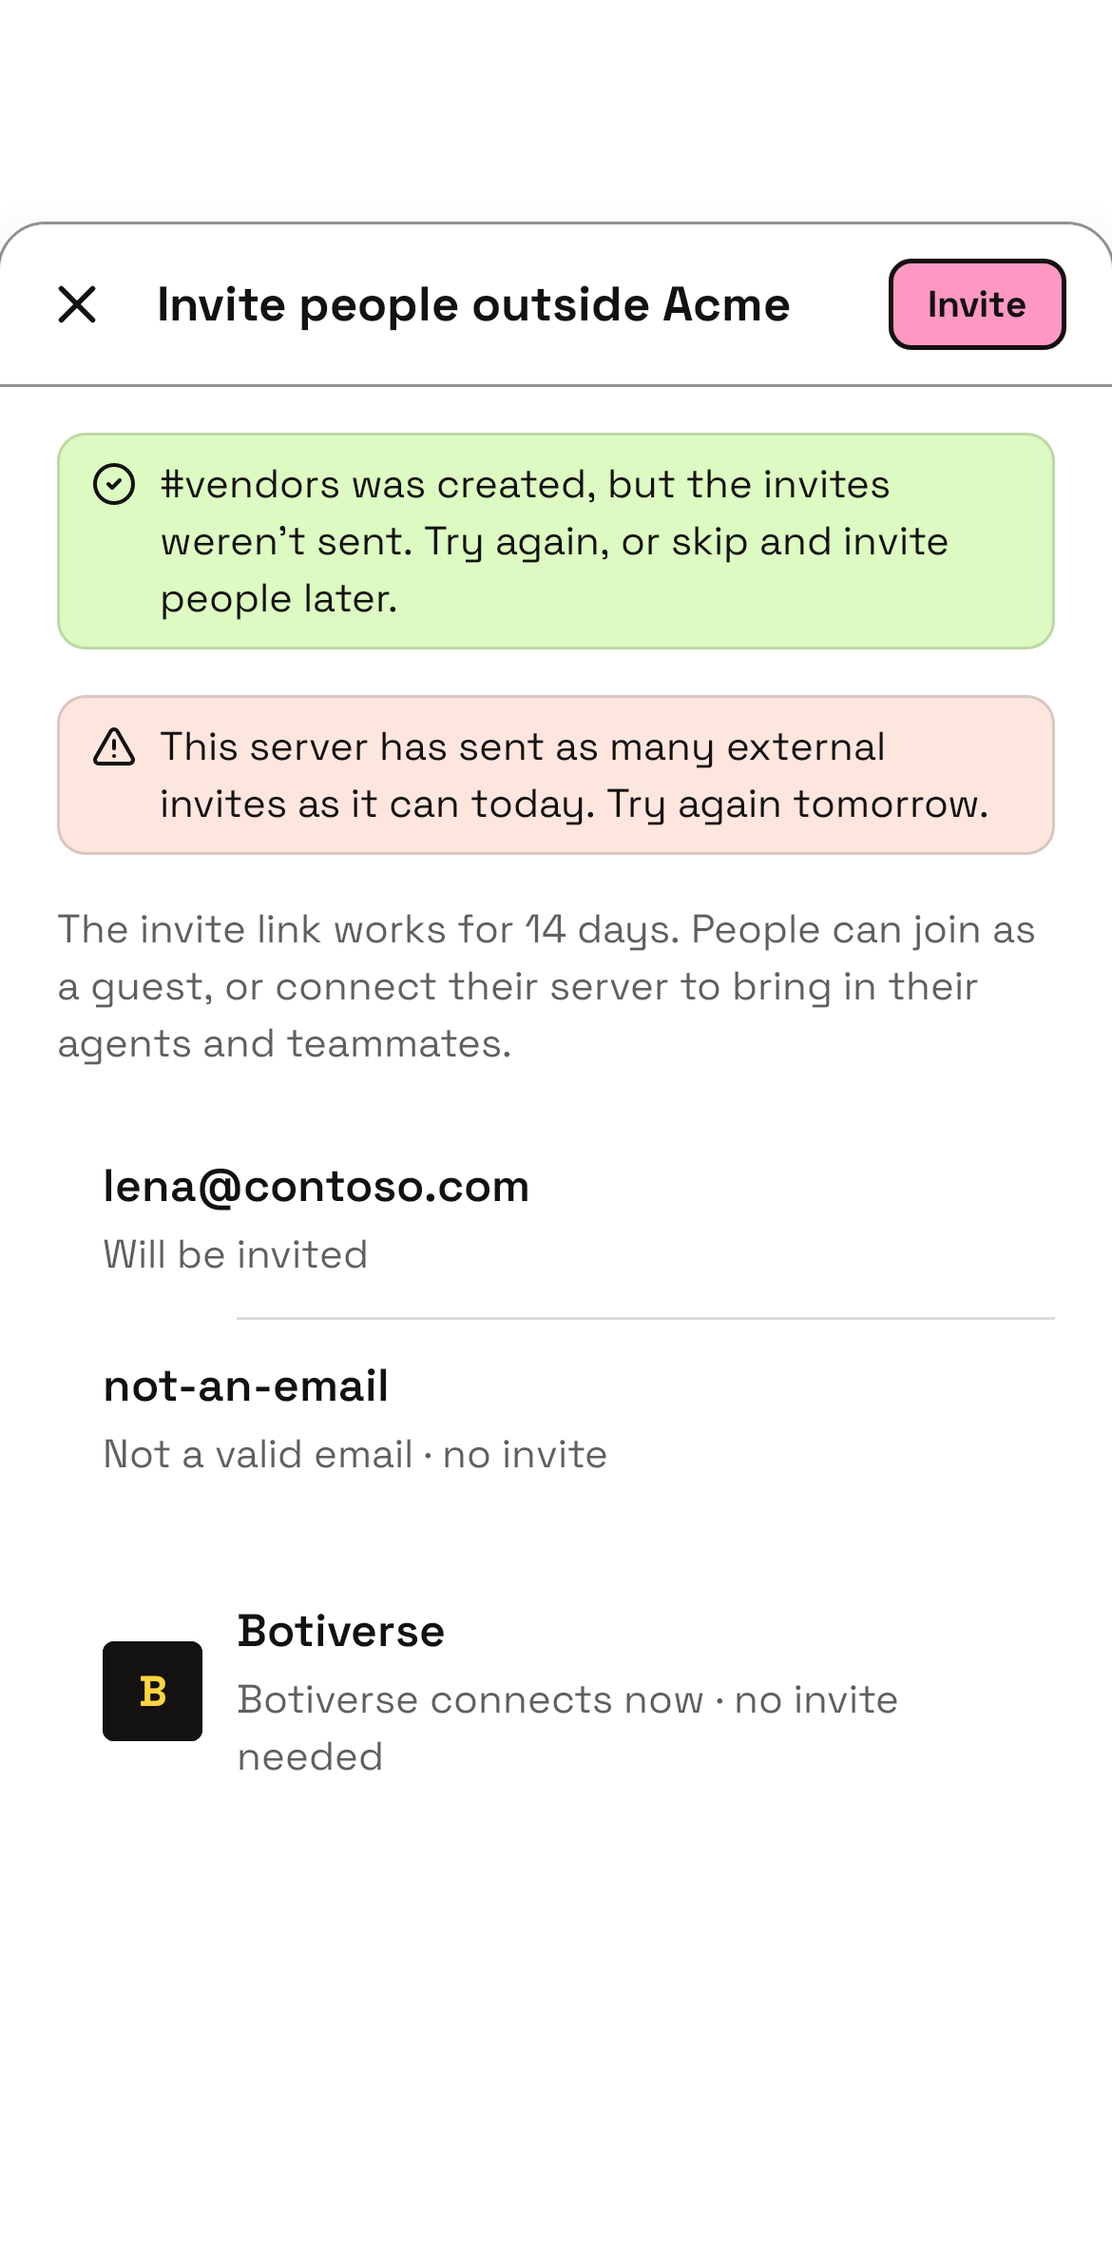
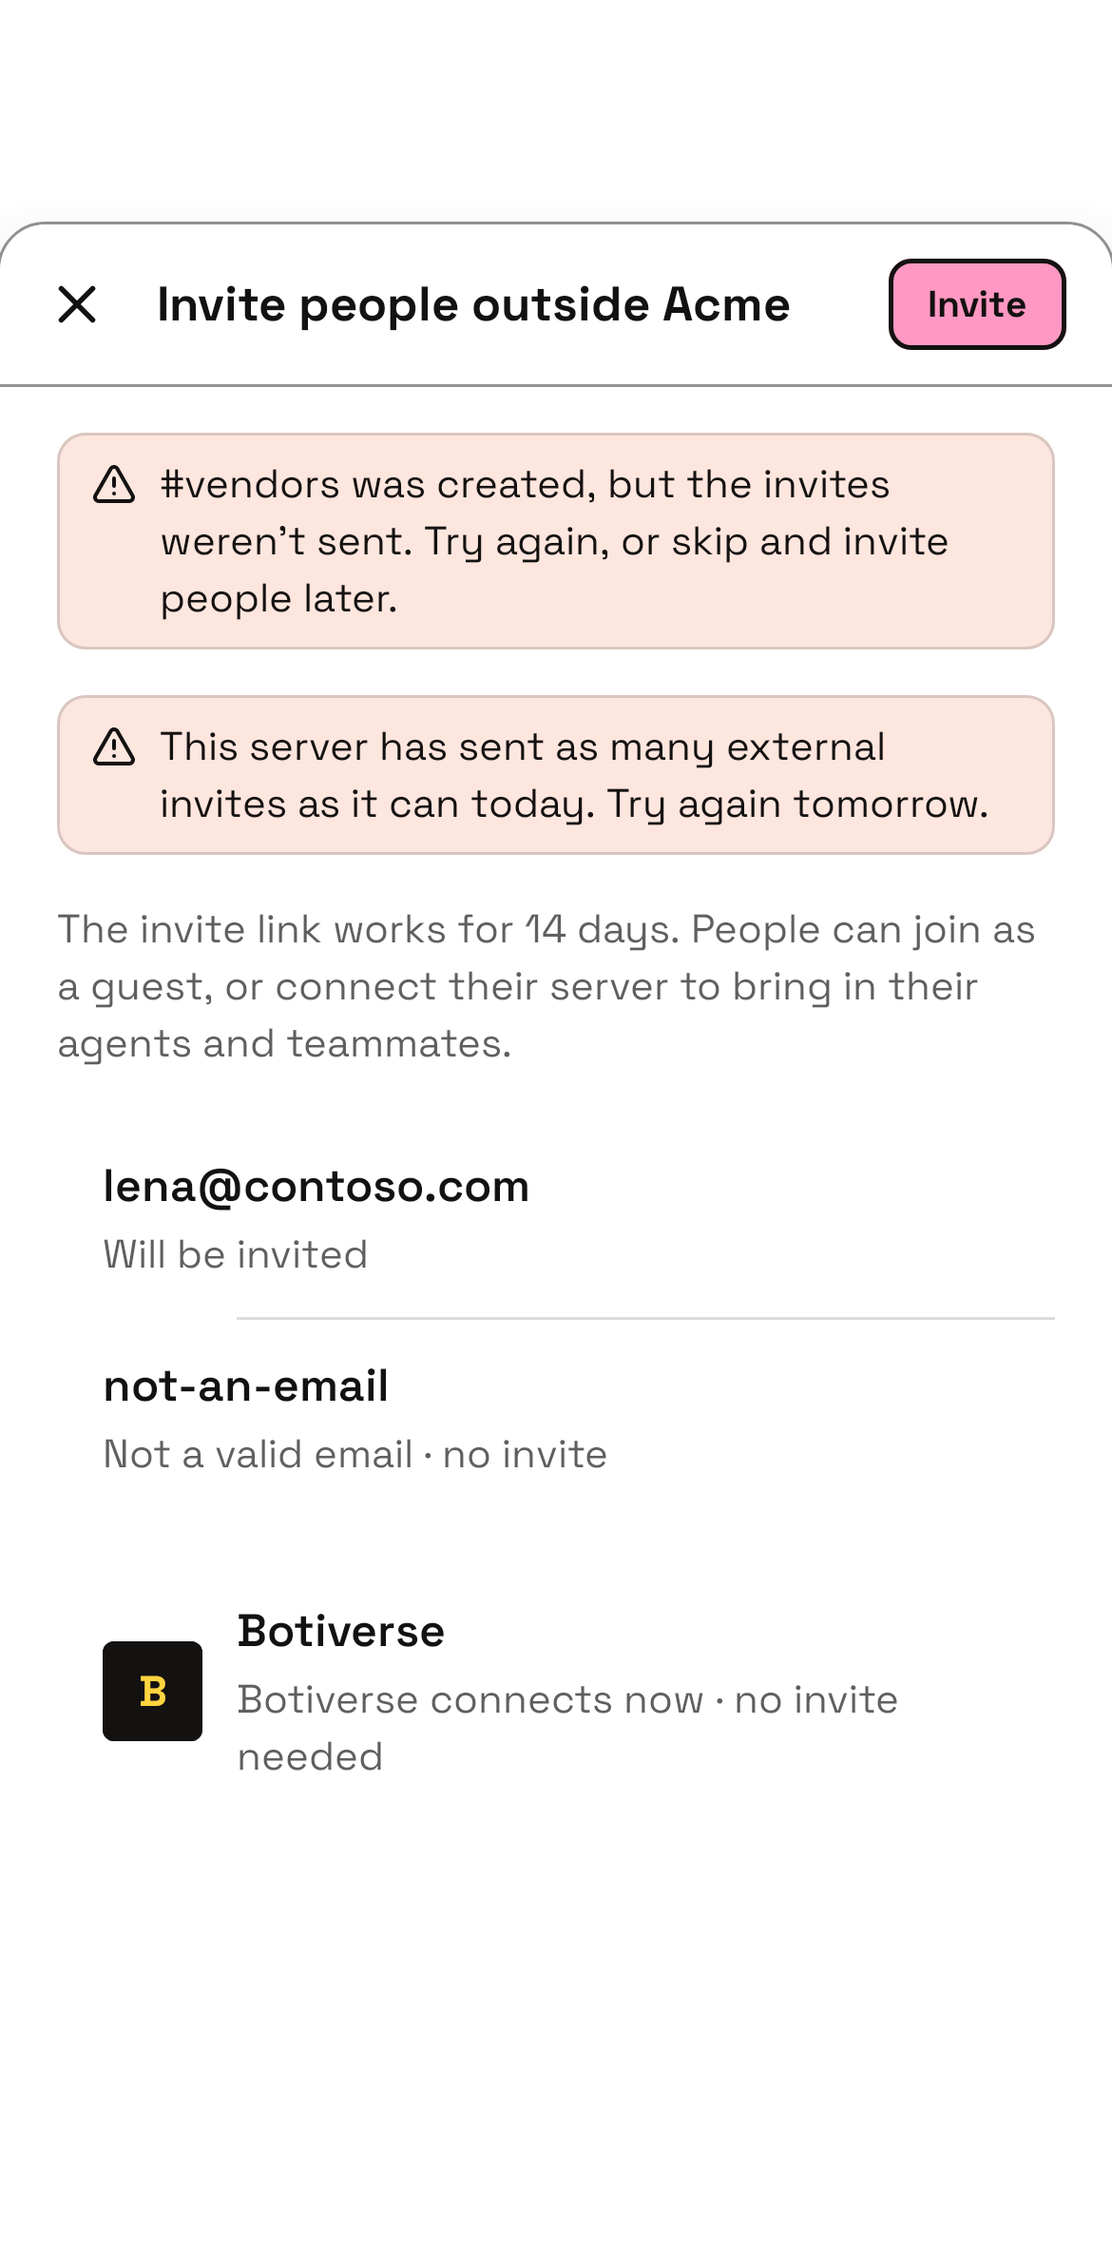
fix: Claude limit reset copy for owners/admins; external channel notice waits for the send
Claude limit resets (slock #15124): owners and admins may now use them, so
the reset copy speaks of "this account's" resets (consent title/body,
confirm title, done, five-hour-spent) in all 8 locales, copied from web
staging. The Claude-only owner-only string and text are removed: an older
server's `claude_limit_reset_owner_only` refusal (a 403) and the view-only
dialog's consent case now show the shared "connector, or an owner or
admin" copy (`limit_reset_forbidden`), as web does. Gating stays
server-driven through `claudeLimitResetAccess.canUse`.

Create channel External (slock #15136): "created, but the invites weren't
sent" shows only once a send after the create came back unsent
(`CreateExternalChannelState.showCreatedNotice`), not while Create and
Invite is sending, and as a warning instead of success. The success path
clears busy and emits Finished in one state update so no idle
created-with-nothing-pending state is ever observable.

Changed region(s): [[0.0308, 0.1853, 0.9538, 0.3088]]

diff --git a/compose/shared/src/commonTest/kotlin/build/raft/app/CreateExternalChannelStoreTest.kt b/compose/shared/src/commonTest/kotlin/build/raft/app/CreateExternalChannelStoreTest.kt
@@ -14,7 +14,10 @@ import build.raft.app.data.SentExternalInvite
 import build.raft.app.data.ServerConnectOutcome
 import build.raft.app.model.ChannelId
 import build.raft.app.model.ThreadId
+import kotlinx.coroutines.CompletableDeferred
+import kotlinx.coroutines.launch
 import kotlinx.coroutines.test.TestScope
+import kotlinx.coroutines.test.UnconfinedTestDispatcher
 import kotlinx.coroutines.test.runCurrent
 import kotlinx.coroutines.test.runTest
 import kotlin.test.Test
@@ -36,6 +39,8 @@ private class FakeCreateExternalChannelDataSource : CreateExternalChannelDataSou
         ArrayDeque<DataResult<ExternalInviteAnswer<SendExternalInvitesResult>>>()
     var connectAnswer: DataResult<ExternalInviteAnswer<List<ServerConnectOutcome>>> =
         DataResult.Content(ExternalInviteAnswer.Ok(emptyList()))
+    /** Holds every send until completed (the send still running). */
+    var sendGate: CompletableDeferred<Unit>? = null
     var freeLimitCalls = 0
     var serversCalls = 0
     val previewCalls = mutableListOf<List<String>>()
@@ -53,6 +58,7 @@ private class FakeCreateExternalChannelDataSource : CreateExternalChannelDataSou
 
     override suspend fun send(channelId: ChannelId, emails: List<String>): DataResult<ExternalInviteAnswer<SendExternalInvitesResult>> {
         sendCalls += channelId to emails
+        sendGate?.await()
         return sendAnswers.removeFirstOrNull()
             ?: DataResult.Content(ExternalInviteAnswer.Ok(SendExternalInvitesResult(sent = listOf(SentExternalInvite("i1", emails.first())))))
     }
@@ -155,6 +161,48 @@ class CreateExternalChannelStoreTest {
             effects.dropLast(1),
         )
         assertEquals("c1", assertIs<CreateExternalChannelEffect.Finished>(effects.last()).channel.channel.channelId.value)
+    }
+
+    /** slock #15136: "created, but the invites weren't sent" waits for a send that came back unsent. */
+    @Test
+    fun theCreatedNoticeShowsOnlyOnceASendAfterTheCreateFailed() = runTest {
+        val source =
+            FakeCreateExternalChannelDataSource().apply {
+                sendGate = CompletableDeferred()
+                sendAnswers.addLast(DataResult.Content(ExternalInviteAnswer.Refused(ExternalInviteRefusal(429, "daily_cap", "cap"))))
+            }
+        val store = started(source)
+        store.dispatch(CreateExternalChannelIntent.SetText("new@example.com"))
+        store.dispatch(CreateExternalChannelIntent.Review)
+        runCurrent()
+        store.dispatch(CreateExternalChannelIntent.Commit(draft))
+        runCurrent()
+        // Created, the invites still sending: no notice.
+        assertNotNull(store.state.value.created)
+        assertTrue(store.state.value.invite.busy)
+        assertFalse(store.state.value.showCreatedNotice)
+
+        source.sendGate!!.complete(Unit)
+        runCurrent()
+        // The send came back unsent and the review stays open: the notice.
+        assertEquals(ExternalInviteError.DailyCap, store.state.value.invite.failure?.error)
+        assertTrue(store.state.value.showCreatedNotice)
+
+        // The retry: hidden while it sends, and none once it succeeded (the review closes).
+        source.sendGate = CompletableDeferred()
+        store.dispatch(CreateExternalChannelIntent.Commit(draft))
+        runCurrent()
+        assertTrue(store.state.value.invite.busy)
+        assertFalse(store.state.value.showCreatedNotice)
+        val seen = mutableListOf<Boolean>()
+        val watcher = backgroundScope.launch(UnconfinedTestDispatcher(testScheduler)) { store.state.collect { seen += it.showCreatedNotice } }
+        runCurrent()
+        source.sendGate!!.complete(Unit)
+        runCurrent()
+        watcher.cancel()
+        assertIs<CreateExternalChannelEffect.Finished>(store.state.value.effects.last())
+        assertFalse(store.state.value.showCreatedNotice)
+        assertEquals(listOf(false), seen.distinct())
     }
 
     @Test

diff --git a/compose/shared/src/commonMain/kotlin/build/raft/app/ComputerRuntimeClaudeLimitReset.kt b/compose/shared/src/commonMain/kotlin/build/raft/app/ComputerRuntimeClaudeLimitReset.kt
@@ -54,15 +54,17 @@ import build.raft.designsystem.theme.RaftTheme
  * when asked, and the confirm uses one kind. Codex's "Use a reset" is ComputerRuntimeLimitReset.kt.
  */
 
-/** Web `ClaudeLimitResetOffer`: use (the person who connected the Computer), or the list only. */
+/** Web `ClaudeLimitResetOffer`: use (the person who connected the Computer, or an owner or admin), or the list only (an older server). */
 internal enum class ComputerRuntimeClaudeLimitResetAccess { Use, ViewOnly }
 
 /**
  * Web `claudeLimitResetOffer`: only for Claude, a person who may act on the Computer's runtimes
  * while it can be reached, Claude Code not signed out, the server saying this Computer runs them
  * (`claudeLimitResets` ok: the flag is on) and the Computer not having answered that it cannot.
- * `canUse` alone decides: someone else may only view the list, and only below the 5-hour limit,
- * where the read needs no consent. An older server without the field: offered as usable.
+ * `canUse` alone decides. The current server sends it true to everyone it sends the resets to (the
+ * person who connected the Computer, an owner or admin; slock #15124); an older server sent it false
+ * to an owner or admin who did not connect it, who may then only view the list, and only below the
+ * 5-hour limit, where the read needs no consent. A server without the field: offered as usable.
  */
 internal fun computerRuntimeClaudeLimitResetAccess(
     provider: RuntimeAccountUsageProvider,
@@ -112,7 +114,6 @@ internal sealed interface ComputerRuntimeClaudeLimitResetText {
     data object Reauth : ComputerRuntimeClaudeLimitResetText
     data class ReadFailed(val viewOnly: Boolean) : ComputerRuntimeClaudeLimitResetText
     data class ReadTimeout(val viewOnly: Boolean) : ComputerRuntimeClaudeLimitResetText
-    data object OwnerOnly : ComputerRuntimeClaudeLimitResetText
     data object Forbidden : ComputerRuntimeClaudeLimitResetText
     data object ComputerOffline : ComputerRuntimeClaudeLimitResetText
     data object UpgradeRequired : ComputerRuntimeClaudeLimitResetText
@@ -179,7 +180,6 @@ internal val RuntimeLimitResetRefusal.outcomeUnknown: Boolean
 internal fun RuntimeLimitResetRefusal.claudeRequestError(): ComputerRuntimeClaudeLimitResetText {
     val status = status
     return when {
-        code == "claude_limit_reset_owner_only" -> ComputerRuntimeClaudeLimitResetText.OwnerOnly
         status == 403 -> ComputerRuntimeClaudeLimitResetText.Forbidden
         code == "computer_offline" -> ComputerRuntimeClaudeLimitResetText.ComputerOffline
         code == "computer_upgrade_required" -> ComputerRuntimeClaudeLimitResetText.UpgradeRequired
@@ -301,7 +301,6 @@ internal fun ComputerRuntimeClaudeLimitResetText.text(): String =
                     Res.string.settings_computers_runtime_usage_claude_reset_read_timeout
                 }
             )
-        ComputerRuntimeClaudeLimitResetText.OwnerOnly -> stringResource(Res.string.settings_computers_runtime_usage_claude_reset_owner_only)
         ComputerRuntimeClaudeLimitResetText.Forbidden -> stringResource(Res.string.settings_computers_runtime_usage_limit_reset_forbidden)
         ComputerRuntimeClaudeLimitResetText.ComputerOffline -> stringResource(Res.string.settings_computers_runtime_usage_limit_reset_computer_offline)
         ComputerRuntimeClaudeLimitResetText.UpgradeRequired -> stringResource(Res.string.settings_computers_runtime_usage_limit_reset_upgrade_required)

diff --git a/compose/shared/src/commonMain/kotlin/build/raft/app/ComputerRuntimeUsageChip.kt b/compose/shared/src/commonMain/kotlin/build/raft/app/ComputerRuntimeUsageChip.kt
@@ -448,8 +448,8 @@ internal class ComputerRuntimeUsageController(
 
     /**
      * "View available resets" (web `ClaudeLimitResetsDialog`): reads at once below the 5-hour
-     * limit; at it, the person who connected the Computer is asked to consent first, anyone else
-     * is told who can (the card does not offer it to them there).
+     * limit; at it, a viewer who may use the resets is asked to consent first, anyone else (only
+     * on an older server) is told who can (the card does not offer it to them there).
      */
     private fun openClaudeLimitResets() {
         if (claudeLimitResetOffer?.view != true) return
@@ -459,7 +459,7 @@ internal class ComputerRuntimeUsageController(
             when {
                 !atLimit -> ComputerRuntimeClaudeLimitResetsPhase.Reading(consent = false)
                 canUse -> ComputerRuntimeClaudeLimitResetsPhase.Consent
-                else -> ComputerRuntimeClaudeLimitResetsPhase.Failed(ComputerRuntimeClaudeLimitResetText.OwnerOnly)
+                else -> ComputerRuntimeClaudeLimitResetsPhase.Failed(ComputerRuntimeClaudeLimitResetText.Forbidden)
             }
         claudeLimitResetsDialog = ComputerRuntimeClaudeLimitResetsListState(phase = phase, canUse = canUse, atFiveHourLimit = atLimit)
         if (phase is ComputerRuntimeClaudeLimitResetsPhase.Reading) readClaudeLimitResets(consent = false)
@@ -511,7 +511,7 @@ internal class ComputerRuntimeUsageController(
                                         if (canUse) {
                                             ComputerRuntimeClaudeLimitResetsPhase.Consent
                                         } else {
-                                            ComputerRuntimeClaudeLimitResetsPhase.Failed(ComputerRuntimeClaudeLimitResetText.OwnerOnly)
+                                            ComputerRuntimeClaudeLimitResetsPhase.Failed(ComputerRuntimeClaudeLimitResetText.Forbidden)
                                         }
                                     else -> {
                                         if (claudeLimitResetsNotSupportedHere(read.reason)) claudeNotSupportedHere = true

diff --git a/compose/shared/src/commonMain/kotlin/build/raft/app/CreateExternalChannel.kt b/compose/shared/src/commonMain/kotlin/build/raft/app/CreateExternalChannel.kt
@@ -65,6 +65,14 @@ internal data class CreateExternalChannelState(
     val created: CreateChannelResult? = null,
     val effects: List<CreateExternalChannelEffect> = emptyList(),
 ) {
+    /**
+     * Web `createdExternal && !externalCommitting` (slock #15136): "created, but the invites weren't
+     * sent" only once a send after the create came back unsent and the review stayed open; not while
+     * Create and Invite is still sending, nor once it finished (the review closes onto the channel).
+     */
+    val showCreatedNotice: Boolean
+        get() = created != null && !invite.busy && effects.none { it is CreateExternalChannelEffect.Finished }
+
     /** Web `emailsBlocked`: step 2's Create and Invite needs an email or a server, and 20 at most. */
     val canReview: Boolean
         get() = !invite.busy && (invite.entries.isNotEmpty() || invite.chosenServers.isNotEmpty()) && invite.overBy <= 0
@@ -280,13 +288,19 @@ internal class CreateExternalChannelStore(
                         null -> listOf(ExternalInvitesEffect.ServersNotConnected((result as? DataResult.Error)?.error?.traceId))
                     }
                 }
-            updateInvite { it.copy(busy = false) }
             val toasts =
                 listOfNotNull(
                     ExternalInvitesEffect.Sent(sent).takeIf { sent > 0 },
                     ExternalInvitesEffect.Added(added).takeIf { added > 0 },
                 ) + serverEffects
-            emit(*(toasts.map { CreateExternalChannelEffect.Toast(it) } + CreateExternalChannelEffect.Finished(channel)).toTypedArray())
+            // One update: no state in between that is idle with the channel created and nothing pending
+            // (it would show "created, but the invites weren't sent" for a send that succeeded).
+            mutableState.update {
+                it.copy(
+                    invite = it.invite.copy(busy = false),
+                    effects = it.effects + toasts.map { toast -> CreateExternalChannelEffect.Toast(toast) } + CreateExternalChannelEffect.Finished(channel),
+                )
+            }
         }
     }
 }

diff --git a/compose/shared/src/commonMain/kotlin/build/raft/app/CreateExternalChannelUi.kt b/compose/shared/src/commonMain/kotlin/build/raft/app/CreateExternalChannelUi.kt
@@ -23,7 +23,8 @@ internal const val CreateExternalChannelCreatedTag = "create-channel-external-cr
  * review for the channel about to be made. Its button reads Create and Invite until the channel
  * exists, then Invite; Back returns to step 2 until then. Skip (the sheet's close) leaves: before
  * the create nothing was made, after it onto the channel. A send that failed after the create says
- * the channel was made above the refusal.
+ * the channel was made above the refusal, as a warning, and only once it failed
+ * ([CreateExternalChannelState.showCreatedNotice]).
  */
 @Composable
 internal fun SharedCreateExternalChannelReview(
@@ -67,10 +68,10 @@ internal fun SharedCreateExternalChannelReviewBody(state: CreateExternalChannelS
     val invite = state.invite
     val created = state.created
     Column(Modifier.fillMaxSize()) {
-        if (created != null) {
+        if (created != null && state.showCreatedNotice) {
             RaftBanner(
                 description = stringResource(Res.string.channel_create_external_created, created.channel.name.removePrefix("#")),
-                status = RaftBannerStatus.Success,
+                status = RaftBannerStatus.Warning,
                 size = RaftBannerSize.Sm,
                 modifier = Modifier.fillMaxWidth().padding(start = 20.dp, end = 20.dp, top = 16.dp).testTag(CreateExternalChannelCreatedTag),
             )

diff --git a/compose/shared/src/commonMain/kotlin/build/raft/app/data/ClaudeLimitReset.kt b/compose/shared/src/commonMain/kotlin/build/raft/app/data/ClaudeLimitReset.kt
@@ -18,7 +18,8 @@ import kotlinx.serialization.json.doubleOrNull
  *
  * - `GET …/runtime-auth` carries `claudeLimitResets` (`ok` | `computer_upgrade_required`) only while
  *   the flag is on, for a person who may act, on an online Computer; beside it
- *   `claudeLimitResetAccess {canUse, canConsent}` (only the person who connected the Computer).
+ *   `claudeLimitResetAccess {canUse, canConsent}` (both true since slock #15124: the person who
+ *   connected the Computer, or an owner or admin; an older server sent false to an owner or admin).
  * - `POST …/runtime-account-usage/claude/limit-resets/read` with `{consent?: true}` answers
  *   `{result: RuntimeLimitResetsReadResult}`.
  * - `POST …/runtime-account-usage/claude/limit-reset` with `{idempotencyKey, kind}` answers as the
@@ -47,7 +48,7 @@ internal enum class ClaudeLimitResetsAvailability(val wire: String) {
     }
 }
 
-/** `GET …/runtime-auth` `claudeLimitResetAccess`: only the person who connected the Computer spends its Claude resets. */
+/** `GET …/runtime-auth` `claudeLimitResetAccess`: whether this viewer may spend the Computer's Claude resets (false only from an older server). */
 internal data class ClaudeLimitResetAccess(val canUse: Boolean, val canConsent: Boolean)
 
 internal fun JsonElement.toClaudeLimitResetAccess(): ClaudeLimitResetAccess? {

diff --git a/change-logs/1.26.0/changesets/claude-limit-reset-owners-admins-copy.md b/change-logs/1.26.0/changesets/claude-limit-reset-owners-admins-copy.md
@@ -1,0 +1,21 @@
+---
+type: changed
+area: computers
+platforms:
+  - android
+  - ios
+  - desktop
+rollout: full
+---
+
+## zh-CN
+
+服务器所有者和管理员现在也可以使用电脑上的 Claude 额度重置，不再只限于连接这台电脑的人。相关提示改为说明“这个账号”的重置，而不是“你的”重置；如果连接到的是较旧的服务器而无法使用，会说明连接这台电脑的人、所有者或管理员可以使用。
+
+## en
+
+Server owners and admins can now use a Computer's Claude limit resets too, not only the person who connected it. The reset prompts now speak of this account's resets instead of yours, and when an older server refuses, the message says that the person who connected the Computer, or an owner or admin, can use them.
+
+## ja
+
+Claude の上限リセットを、コンピューターを接続したユーザーだけでなく、サーバーのオーナーと管理者も使えるようになりました。リセットの確認文は「あなたの」ではなく「このアカウントの」リセットとして表示されます。古いサーバーで使えない場合は、コンピューターを接続したユーザー、またはオーナーか管理者が使えると表示されます。

diff --git a/change-logs/1.26.0/changesets/create-external-channel-invite-notice-waits.md b/change-logs/1.26.0/changesets/create-external-channel-invite-notice-waits.md
@@ -1,0 +1,21 @@
+---
+type: fixed
+area: channel
+platforms:
+  - android
+  - ios
+  - desktop
+rollout: full
+---
+
+## zh-CN
+
+创建外部频道时，“频道已创建，但邀请未发送”的提示不再在邀请仍在发送时闪现。现在只有在频道创建后邀请发送失败时才会显示，并以警告样式显示。
+
+## en
+
+When you create an external channel, the "created, but the invites weren't sent" notice no longer flashes while the invites are still sending. It now shows only after a send fails once the channel exists, as a warning.
+
+## ja
+
+外部チャンネルを作成するとき、招待の送信中に「作成しましたが、招待は送信されませんでした」という通知が一瞬表示されることがなくなりました。チャンネルの作成後に招待の送信が失敗した場合にのみ、警告として表示されます。
